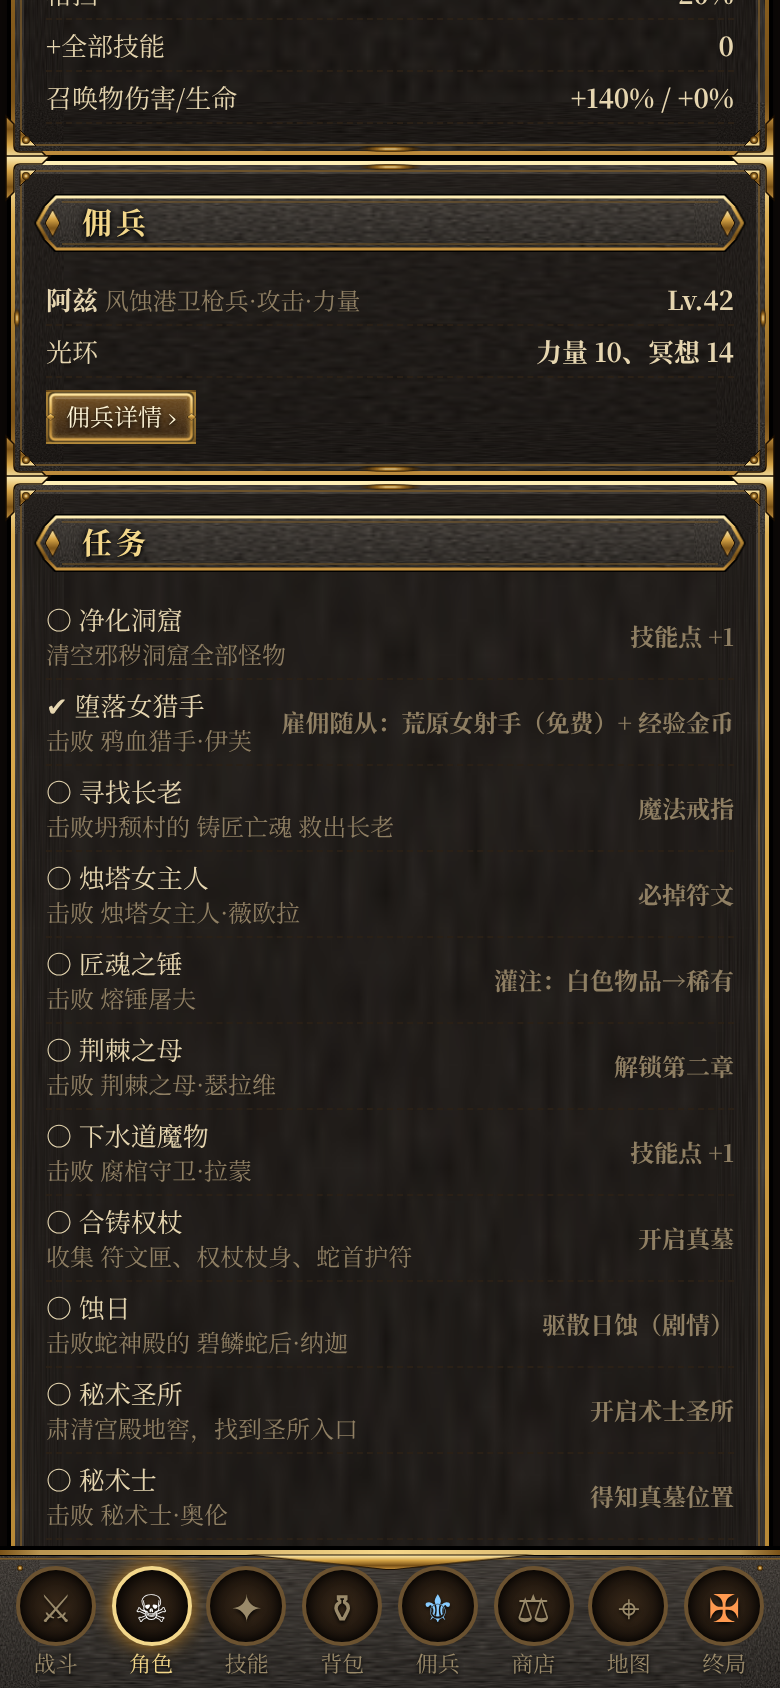
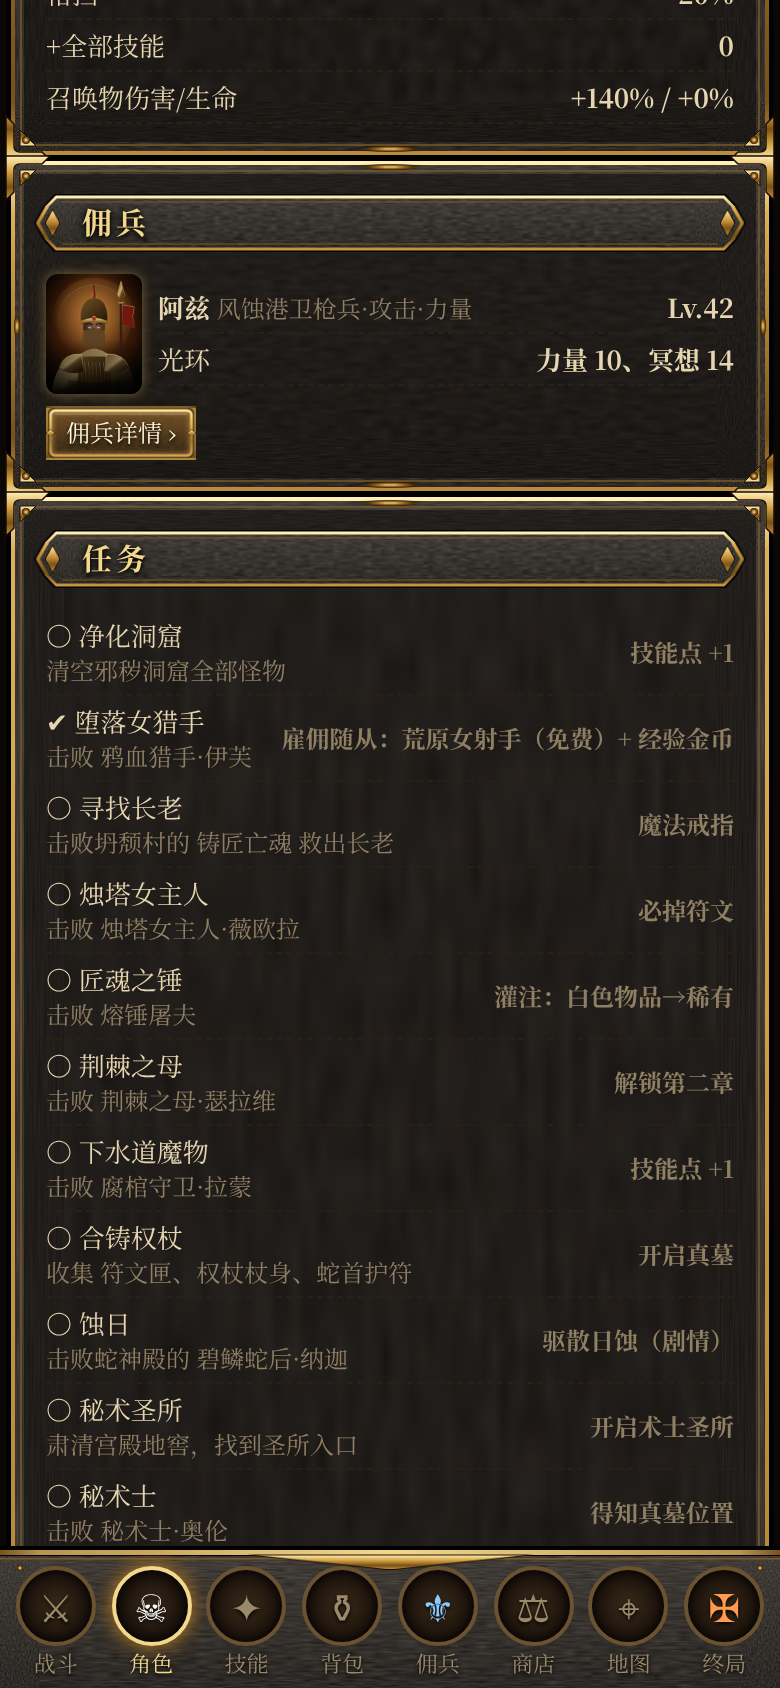
merc: 接入正式佣兵立绘(assets/merc)，去掉占位filter，版本改为轻微边框光；角色页摘要加头像；重拍截图

diff --git a/merc.js b/merc.js
@@ -17,7 +17,7 @@ const MERC_HIRELV={0:[[3,7],[36,40],[67,71]],1:[[9,13],[43,47],[75,79]],2:[[15,1
 // 原版 hireling.txt ExpPerLvl（普通/噩梦/地狱），按本游戏经验曲线缩放：需求(L)=xpNeed(L)*ExpPerLvl/100
 const MERC_XPR={archer:[100,105,110],guard:[110,115,120],mage:[110,115,120],barb:[120,125,130]};
 const MERC_NAMES={archer:['莉娅','卡拉','艾琳','苏菲','萝拉','妮可'],guard:['阿兹','哈卡','萨米','莫拉','吉恩','法鲁'],mage:['奥兰','维克','赛门','诺曼','伊万','塔隆'],barb:['布恩','卡格','欧瑞','索尔','格拉','罗尔']};
-const MERC_ART={archer:'assets/monster/fallen_huntress.webp',guard:'assets/monster/knight.webp',mage:'assets/monster/tombmage.webp',barb:'assets/summon/skeleton_warrior.webp'};
+const MERC_ART={archer:'assets/merc/merc_archer_moor.webp',guard:'assets/merc/merc_spear_port.webp',mage:'assets/merc/merc_mage_ironwolf.webp',barb:'assets/merc/merc_barb_snow.webp'};
 // 光环：lv=光环等级；返回效果。dmg=伤害%（佣兵+召唤物），def=防御%，ar=命中%，ias，heal=每秒回复，mreg=回蓝%，thorns=反伤%，conv=降敌抗，tick={元素:每秒伤害}，slow
 const AURAS={
  might:{n:'力量',f:a=>({dmg:40+10*a}),t:e=>`伤害 +${e.dmg}%`},
@@ -167,8 +167,8 @@ const _mx_allyCard=allyCard;allyCard=function(a){if(a.kind!=='merc'||!mercUp())r
 function mercPortrait(t,v,big){return`<div class="mportw ${big?'big':''}"><img class="mport t_${t} v_${v}" src="${MERC_ART[t]}" onerror="this.style.display='none'"><span class="mglyph">${MERCS[t].ic}</span></div>`}
 mercPanel=function(){mercNorm();if(!S.mercU&&!mercUp())return`<div class="gp"><h3>佣兵</h3><div class="dim">完成第一章任务「堕落女猎手」后可获得佣兵。</div></div>`;
  const m=S.merc;if(!mercUp())return`<div class="gp"><h3>佣兵</h3><div class="dim">当前没有佣兵。</div><div class="btns"><button class="btn sm gold" onclick="TAB='merc';render()">前往佣兵页雇佣</button></div></div>`;
- const ms=mercStats();return`<div class="gp mercmini" onclick="TAB='merc';render()"><h3>佣兵</h3><div class="row"><span><b>${m.nm}</b> <span class="dim">${MERCS[m.t].n}·${mercVarDef(m.t,m.v).n}</span></span><b>${m.dead?'<span class="bad">阵亡</span>':'Lv.'+m.lvl}</b></div>
- <div class="row"><span>光环</span><b>${ms.auras.map(a=>AURAS[a.id].n+' '+a.lv).join('、')||'无'}</b></div><div class="btns"><button class="btn sm gold">佣兵详情 ›</button></div></div>`};
+ const ms=mercStats();return`<div class="gp mercmini" onclick="TAB='merc';render()"><h3>佣兵</h3><div class="mminih">${mercPortrait(m.t,m.v)}<div style="flex:1"><div class="row"><span><b>${m.nm}</b> <span class="dim">${MERCS[m.t].n}·${mercVarDef(m.t,m.v).n}</span></span><b>${m.dead?'<span class="bad">阵亡</span>':'Lv.'+m.lvl}</b></div>
+ <div class="row"><span>光环</span><b>${ms.auras.map(a=>AURAS[a.id].n+' '+a.lv).join('、')||'无'}</b></div></div></div><div class="btns"><button class="btn sm gold">佣兵详情 ›</button></div></div>`};
 function mercStatsHTML(ms){const row=(a,b,w)=>`<div class="mrow${w?' wide':''}"><span>${a}</span><b>${b}</b></div>`;const T=MERCS[S.merc.t];
  return row('生命',ms.life)+row('防御',ms.def)+row(T.spell?'法术伤害':'伤害',Math.round(ms.dmg[0])+'-'+Math.round(ms.dmg[1]))+row('攻击间隔',ms.atk.toFixed(2)+'s'+(ms.ias?` <small>(+${ms.ias}%)</small>`:''))+row('命中',ms.ar)+row('力量 / 敏捷',ms.str+' / '+ms.dex)+
  row('火 / 冰 / 电 / 毒抗',`<span class="mrf">${ms.res.fire}</span>/<span class="mrc">${ms.res.cold}</span>/<span class="mrl">${ms.res.light}</span>/<span class="mrp">${ms.res.pois}</span>`,1)+row('偷取生命',ms.ll+'%')+row('+所有技能',ms.allsk)+row('压碎打击',ms.cb+'%')}

diff --git a/merc.css b/merc.css
@@ -6,15 +6,17 @@
 .mportw.big{width:132px;height:170px;flex:none;border:1px solid #5fa0e0;box-shadow:0 0 12px rgba(95,160,224,.35) inset}
 .mportw .mglyph{position:absolute;inset:0;display:flex;align-items:center;justify-content:center;font-size:42px;opacity:.25;z-index:0}
 .mport{position:relative;z-index:1;width:100%;height:100%;object-fit:cover;object-position:50% 20%}
-/* 立绘占位：怪物/召唤图 + filter 色调处理，等待正式美术 */
-.mport.t_archer{filter:hue-rotate(-35deg) saturate(1.3) brightness(1.1) contrast(1.05)}
-.mport.t_guard{filter:sepia(.75) hue-rotate(-8deg) saturate(1.6) brightness(1.08)}
-.mport.t_mage{filter:hue-rotate(195deg) saturate(1.4) brightness(1.15)}
-.mport.t_barb{filter:sepia(.4) hue-rotate(160deg) saturate(.8) brightness(1.2) contrast(1.15)}
-.mport.v_fire{filter:hue-rotate(-35deg) saturate(1.4) brightness(1.1) drop-shadow(0 0 6px #f84)}
-.mport.v_cold{filter:hue-rotate(160deg) saturate(1.3) brightness(1.15) drop-shadow(0 0 6px #8cf)}
-.mport.v_light{filter:hue-rotate(195deg) saturate(1.4) brightness(1.2) drop-shadow(0 0 6px #ff6)}
-.mport.t_guard.v_hfz,.mport.t_guard.v_thorns,.mport.t_guard.v_baim{filter:sepia(.6) hue-rotate(170deg) saturate(1.3) brightness(1.1)}
+/* 正式立绘 512×640（4:5）：按人物上半身裁切；版本仅以轻微边框光区分 */
+.mport{object-position:50% 12%}
+.mportw.big{width:136px;height:170px}
+.mportw.big .mport{object-position:50% 0}
+.mportw:has(.v_fire){box-shadow:0 0 6px rgba(255,136,68,.45)}
+.mportw:has(.v_cold){box-shadow:0 0 6px rgba(136,204,255,.45)}
+.mportw:has(.v_light){box-shadow:0 0 6px rgba(255,255,102,.45)}
+.mportw:has(.v_might),.mportw:has(.v_pray),.mportw:has(.v_defi),.mportw:has(.v_hfz),.mportw:has(.v_thorns),.mportw:has(.v_baim){box-shadow:0 0 6px rgba(255,215,106,.4)}
+.mminih{display:flex;gap:8px;align-items:center}
+.mminih .mportw{width:48px;height:60px;flex:none}
+.ac.merc .pt .mport{object-fit:cover;object-position:50% 10%}
 .minfo{flex:1;display:flex;flex-direction:column;gap:3px;min-width:0}
 .mname{font-size:18px;color:#ffd76a;font-weight:bold}
 .mlv b{font-size:20px;color:#fff}
